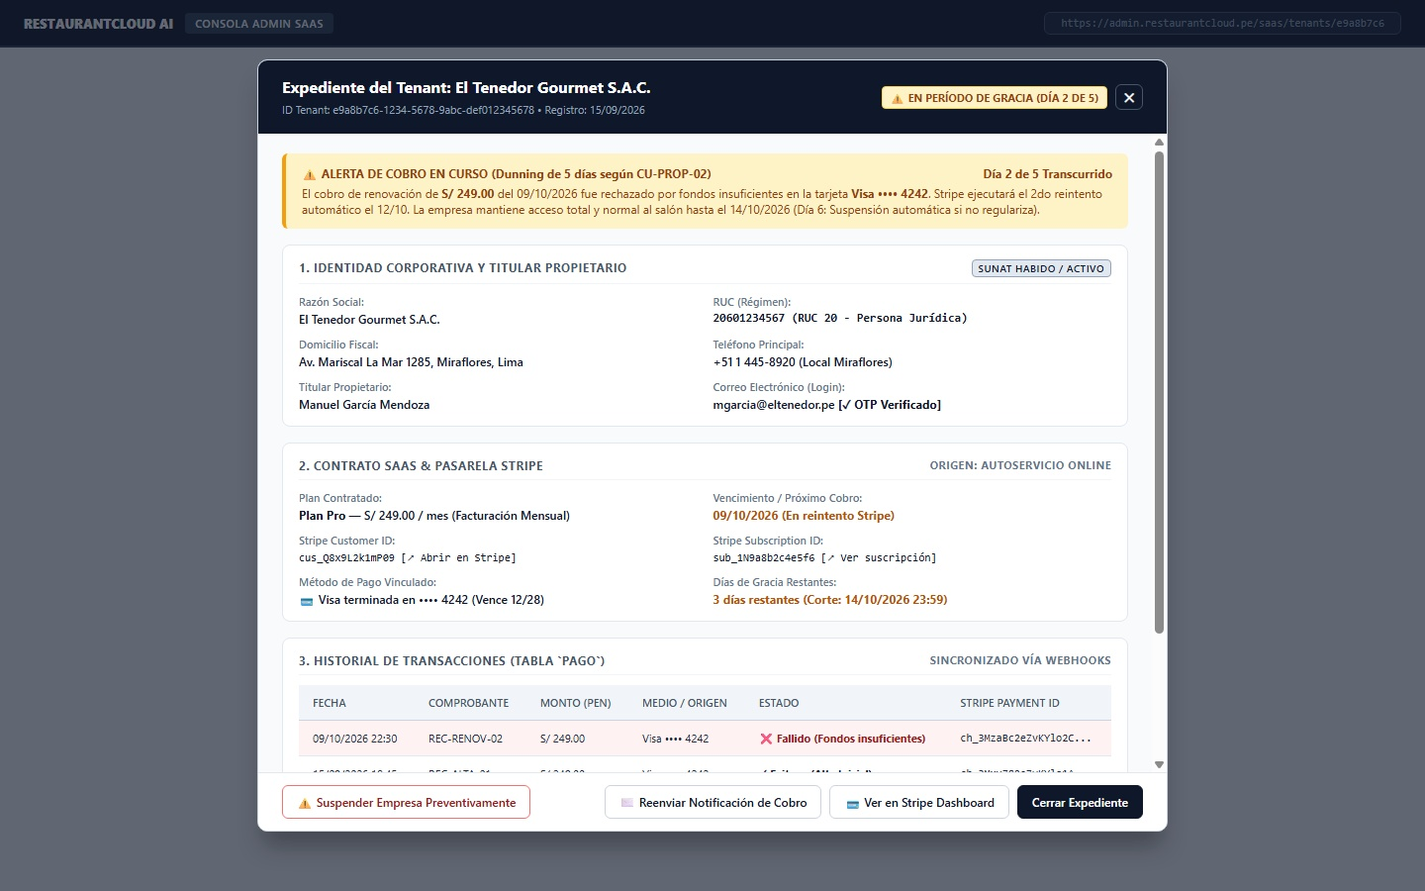
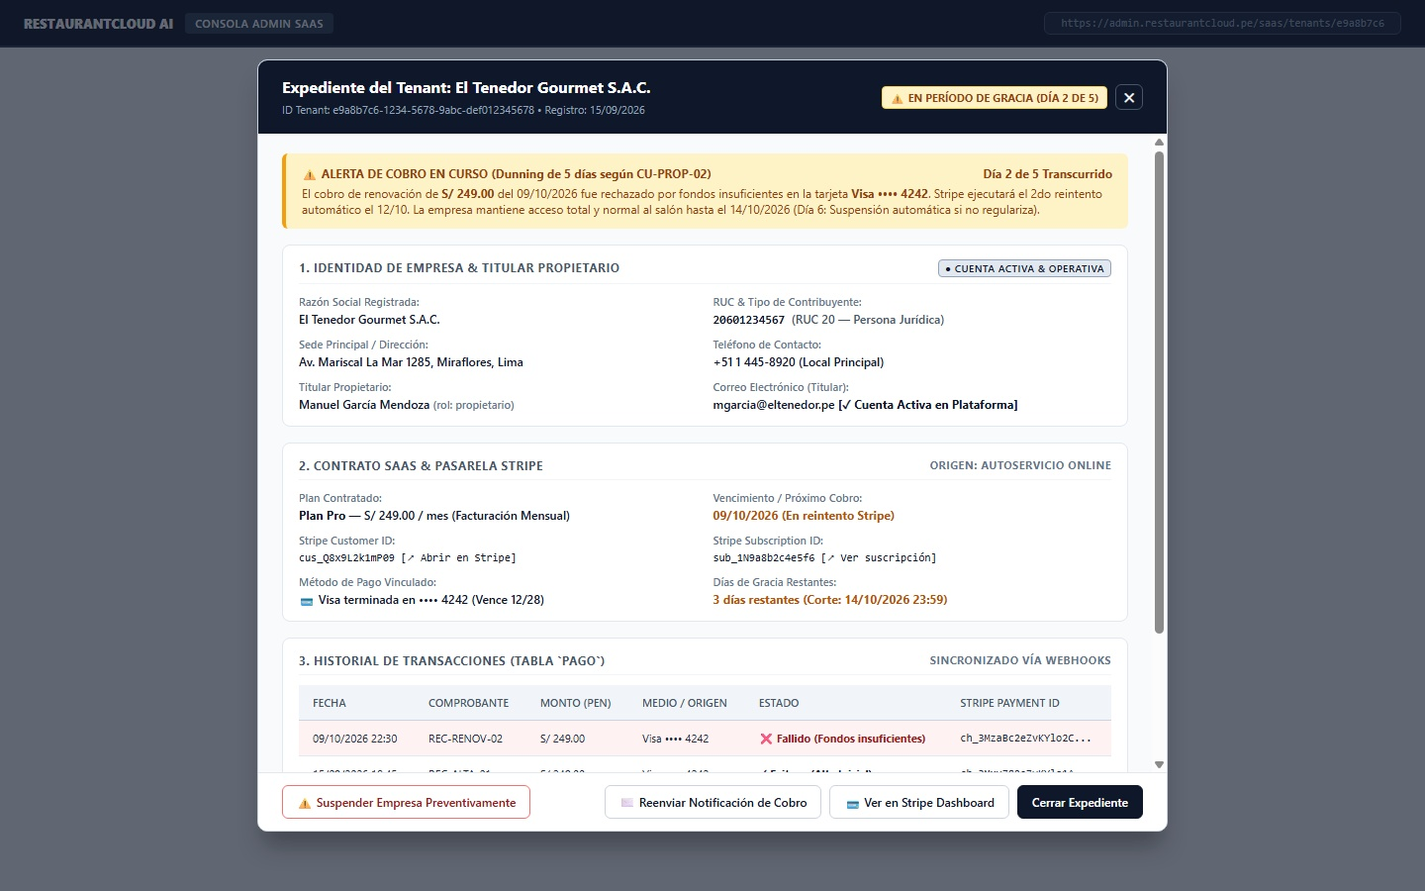
CU-SAAS-01: Desacoplar expediente y alta manual de APIs externas usando datos locales y validacion Modulo 11

diff --git a/wireframe/saas_admin/CU-SAAS-01-supervisar-tenants/wireframe.md b/wireframe/saas_admin/CU-SAAS-01-supervisar-tenants/wireframe.md
@@ -41,6 +41,12 @@
    - **En Período de Gracia:** Cuentas con pago de renovación en reintento dentro de la ventana de 5 días (ej. 3 empresas, S/ 747 MRR en riesgo).
    - **Sedes Operativas Conectadas:** Total acumulado de locales físicos en producción (ej. 112 locales, promedio 2.3 sedes por empresa), indicador directo del uso real de la infraestructura.
 
+6. **Independencia de APIs Externas (SUNAT / ApiPerú) y Validación Matemática Local:**
+   - La visualización del expediente (Vista 2) y el formulario de alta manual (Vista 3) no dependen de llamadas a APIs externas de SUNAT ni ApiPerú, eliminando costos por consulta, riesgos de timeout y cuellos de botella de red.
+   - El RUC de 11 dígitos se valida internamente en frontend y backend mediante el **algoritmo matemático de Módulo 11**, verificando la consistencia de su dígito verificador.
+   - La tipificación del contribuyente se deduce limpiamente del prefijo del RUC: prefijo `20` $\rightarrow$ `Persona Jurídica (Empresa)`; prefijo `10` $\rightarrow$ `Persona Natural con Negocio`.
+   - El estado tributario se reemplaza por el **Estado de Cuenta en Plataforma** (`● ACTIVA & OPERATIVA`, `⚠ EN PERÍODO DE GRACIA`, `🚫 SUSPENDIDA`), resolviéndose con un `JOIN` local de base de datos en $< 10\text{ ms}$.
+
 ---
 
 ## 2. Diagrama de Secuencia Mermaid
@@ -64,11 +70,11 @@ sequenceDiagram
     API-->>SPA: 200 OK (TenantListResponseDTO)
     SPA-->>SAAS: Renderiza Bandeja de Tenants (Vista 1: wf_saas_01_bandeja_tenants.jpg)
 
-    opt Flujo 2: Inspección de Expediente de Tenant en Gracia
-        SAAS->>SPA: Clic en [ 👁 Ver Expediente ] (La Mar Cevichería)
+    opt Flujo 2: Inspección de Expediente de Tenant en Gracia (100% Local)
+        SAAS->>SPA: Clic en [ 👁 Ver Expediente ] (El Tenedor Gourmet)
         SPA->>API: GET /api/v1/saas/tenants/EMP-004
-        API->>BD: SELECT e.*, s.*, p.* FROM empresa e JOIN suscripcion s ...
-        BD-->>API: Datos fiscales, Stripe IDs, historial de pagos, sedes y mesas
+        API->>BD: SELECT e.*, s.*, p.*, l.direccion FROM empresa e JOIN suscripcion s ...
+        BD-->>API: Datos nativos, tipo deducido, Stripe IDs, pagos, sedes y mesas
         API-->>SPA: 200 OK (TenantDetailResponseDTO)
         SPA-->>SAAS: Despliega Expediente Modal (Vista 2: wf_saas_01_detalle_tenant.jpg)
         
@@ -77,29 +83,30 @@ sequenceDiagram
         API->>MAIL: Enviar email recordatorio con botón de actualización de tarjeta
         MAIL-->>API: 202 Dispatched
         API-->>SPA: 200 OK (Notificación despachada)
-        SPA-->>SAAS: Toast: "✓ Recordatorio enviado al propietario (gerencia@lamar.pe)"
+        SPA-->>SAAS: Toast: "✓ Recordatorio enviado al propietario (mgarcia@eltenedor.pe)"
     end
 
-    opt Flujo 3: Alta Manual de Empresa con Pago Verificado (B2B)
+    opt Flujo 3: Alta Manual B2B con Validación Sintáctica Local
         SAAS->>SPA: Clic en botón [ ➕ Nueva Alta Manual ]
         SPA-->>SAAS: Despliega Modal de Formulario (Vista 3: wf_saas_01_modal_alta_manual.jpg)
-        SAAS->>SPA: Ingresa RUC 20603849201 y pulsa [ 🔍 Consultar SUNAT ]
-        SPA->>API: GET /api/v1/saas/sunat/consultar-ruc?ruc=20603849201
-        API-->>SPA: 200 OK (Cevichería Puerto Marino S.A.C., ACTIVO/HABIDO)
+        SAAS->>SPA: Digita RUC 20603849201, Razón Social y Sede Principal
+        SPA->>SPA: Valida algoritmo Módulo 11 (Frontend) y deduce: RUC 20 — Persona Jurídica
         
         SAAS->>SPA: Completa titular, selecciona Plan Pro Anual y registra pago BCP (S/ 2,490)
         SAAS->>SPA: Marca "Despachar correo automático de bienvenida" y pulsa [ ✓ Confirmar Pago y Activar Empresa ]
         
         SPA->>API: POST /api/v1/saas/tenants/alta-manual (AltaManualTenantRequestDTO)
+        API->>API: Valida algoritmo Módulo 11 (Backend Go)
         
         rect rgb(240, 249, 255)
             Note over API, BD: Transacción Atómica de Alta y Pago
             API->>BD: INSERT INTO empresa (ruc, razon_social, estado='activa', origen_alta='manual_admin', ...)
+            API->>BD: INSERT INTO local (empresa_id, nombre='Sede Principal', direccion=..., ...)
             API->>BD: INSERT INTO suscripcion (empresa_id, plan_id, estado='activa', ciclo='anual', ...)
             API->>BD: INSERT INTO pago (empresa_id, monto=2490.00, estado='exitoso', origen_pago='transferencia_bancaria', numero_operacion='OP-90481239-BCP', ...)
             API->>BD: INSERT INTO usuario (empresa_id, rol='propietario', email='admin@puertomarino.pe', ...)
             API->>BD: INSERT INTO capability_token (usuario_id, token, expira_en=72h, accion='fijar_password')
-            BD-->>API: Tenant, suscripción, pago y propietario creados
+            BD-->>API: Tenant, local, suscripción, pago y propietario creados
         end
 
         API->>MAIL: Enviar correo de bienvenida con enlace para configurar contraseña
@@ -174,14 +181,14 @@ Modal de auditoría 360° que desglosa la relación comercial, estado en SUNAT, 
 +-------------------------------------------------------------------------------------------------------------------------------------+
 | [MODAL DE EXPEDIENTE: CU-SAAS-01: DETALLE DE EMPRESA & SUSCRIPCIÓN]                                                                 |
 +-------------------------------------------------------------------------------------------------------------------------------------+
-|  EXPEDIENTE DE EMPRESA: LA MAR CEVICHERÍA E.I.R.L.                                                                        [✕]      |
-|  RUC: 20551928371 • Creado el 15/09/2026 • Estado: [⚠ En Período de Gracia (Día 2 de 5)]                                           |
+|  EXPEDIENTE DEL TENANT: EL TENEDOR GOURMET S.A.C.                                                                          [✕]      |
+|  ID Tenant: e9a8b7c6-1234-5678-9abc-def012345678 • Registro: 15/09/2026 • Estado: [⚠ EN PERÍODO DE GRACIA (DÍA 2 DE 5)]            |
 |-------------------------------------------------------------------------------------------------------------------------------------|
 |  +-------------------------------------------------------------------------------------------------------------------------------+  |
-|  | 1. DATOS FISCALES & CONTACTO TITULAR                                                                                          |  |
-|  | Razón Social: La Mar Cevichería E.I.R.L.               | Estado SUNAT: ✓ ACTIVO / HABIDO (Verificado SUNAT)                   |  |
-|  | Titular / Contacto: Carlos Benavides (Propietario)    | Email Titular: gerencia@lamar.pe                                     |  |
-|  | Teléfono: +51 987 654 321                             | Dirección Fiscal: Av. Mariscal La Mar 770, Miraflores, Lima          |  |
+|  | 1. IDENTIDAD DE EMPRESA & TITULAR PROPIETARIO                              | [● CUENTA ACTIVA & OPERATIVA]                    |  |
+|  | Razón Social Registrada: El Tenedor Gourmet S.A.C.                         | RUC & Tipo: 20601234567 (RUC 20 — Persona Juríd.)|  |
+|  | Sede Principal / Dirección: Av. Mariscal La Mar 1285, Miraflores, Lima     | Teléfono de Contacto: +51 1 445-8920 (Principal) |  |
+|  | Titular Propietario: Manuel García Mendoza (rol: propietario)              | Correo Electrónico: mgarcia@eltenedor.pe [✓ Act.]|  |
 |  +-------------------------------------------------------------------------------------------------------------------------------+  |
 |  +-------------------------------------------------------------------------------------------------------------------------------+  |
 |  | 2. CONTRATO SAAS & PASARELA STRIPE                    | Origen: Autoservicio Online (CU-PROP-01)                              |  |
@@ -205,8 +212,8 @@ Modal de auditoría 360° que desglosa la relación comercial, estado en SUNAT, 
 ```
 
 #### Guía de Elementos y Microcopias
-- **Cabecera del Expediente:** Nombre legal, RUC, fecha de creación y badge de estado `⚠ En Período de Gracia (Día 2 de 5)`.
-- **Sección 1 (Identificación Fiscal):** Datos verificados contra API SUNAT (Razón social, RUC, dirección fiscal, teléfono y contacto titular).
+- **Cabecera del Expediente:** Nombre legal, UUID del tenant, fecha de creación y badge de estado `⚠ En Período de Gracia (Día 2 de 5)`.
+- **Sección 1 (Identidad de Empresa & Titular Propietario):** 100% nativa de base de datos (`empresa.razon_social`, `empresa.ruc`, derivación de tipo `RUC 20 — Persona Jurídica`, dirección de sede principal `local.direccion`, teléfono de contacto y titular con badge `● CUENTA ACTIVA & OPERATIVA`).
 - **Sección 2 (Contrato SaaS & Stripe):** Plan actual (Pro S/ 249/mes), ID de cliente y suscripción en Stripe con deep links a la consola de Stripe, tarjeta vinculada y fecha exacta de corte de servicio tras cumplirse los 5 días de gracia.
 - **Sección 3 (Historial de Pagos):** Tabla con registros inmutables de cobro provenientes de la tabla `pago`. Destaca en fondo rosado el cobro fallido del 09/10 con causa `"Fondos insuficientes"` y el cargo exitoso del alta inicial.
 - **Sección 4 (Uso de Recursos):** Barras de progreso de locales (2 de 3), mesas (28 de 30) y cuentas de personal (11 de 15).
@@ -231,9 +238,9 @@ Formulario de registro administrativo para clientes corporativos B2B que cancela
 |  Registro administrativo para clientes corporativos con pago por transferencia bancaria (sin pasarela Stripe online)                |
 |-------------------------------------------------------------------------------------------------------------------------------------|
 |  +-------------------------------------------------------------------------------------------------------------------------------+  |
-|  | 1. IDENTIFICACIÓN TRIBUTARIA (VALIDACIÓN SUNAT / APIPERÚ)                                                                     |  |
-|  | RUC de la Empresa (11 dígitos): * [ 20603849201 ] [🔍 Consultar SUNAT]  | Estado SUNAT: ✓ ACTIVO / HABIDO                     |  |
-|  | Razón Social Oficial: * [ Cevichería Puerto Marino S.A.C.           ]  | Dirección: * [ Av. Primavera 450, Surco, Lima     ] |  |
+|  | 1. IDENTIFICACIÓN DE LA EMPRESA (INGRESO DIRECTO & VALIDACIÓN SINTÁCTICA LOCAL)                                               |  |
+|  | RUC de la Empresa (11 dígitos): * [ 20603849201 ]        | Tipo Deducido: ✓ RUC 20 — Persona Jurídica (Módulo 11 conforme)|  |
+|  | Razón Social Oficial: * [ Cevichería Puerto Marino S.A.C.           ]  | Dirección Sede: * [ Av. Primavera 450, Surco, Lima ]|  |
 |  +-------------------------------------------------------------------------------------------------------------------------------+  |
 |  +-------------------------------------------------------------------------------------------------------------------------------+  |
 |  | 2. DATOS DEL PROPIETARIO ADMINISTRADOR                                                                                         |  |
@@ -258,7 +265,7 @@ Formulario de registro administrativo para clientes corporativos B2B que cancela
 ```
 
 #### Guía de Elementos y Microcopias
-- **Bloque 1 (Validación SUNAT):** Input de RUC con botón de consulta automática. Al validar, auto-completa Razón Social y Dirección Fiscal, mostrando el badge verde `✓ ACTIVO / HABIDO`.
+- **Bloque 1 (Identificación de la Empresa):** Ingreso directo de RUC (11 dígitos con máscara), validación local matemática Módulo 11 sin llamadas externas, deducción de tipo de contribuyente (`RUC 20 — Persona Jurídica`), Razón Social y Dirección física de la primera sede.
 - **Bloque 2 (Datos del Titular):** Nombres, apellidos, teléfono corporativo y email donde se despachará la invitación de bienvenida.
 - **Bloque 3 (Plan y Términos):** Selector de Plan (Starter, Pro, Enterprise), periodicidad (Mensual o Anual con 2 meses de bonificación) y fechas de vigencia.
 - **Bloque 4 (Pago Verificado):** Monto en Soles, selector de medio de pago bancario (Transferencia BCP, BBVA, Interbank, Yape Empresa, Efectivo Corporativo), número de constancia bancaria y nota administrativa de tesorería.
@@ -401,29 +408,31 @@ type ConsumoRecursosDTO struct {
 }
 
 type TenantDetailResponseDTO struct {
-	EmpresaID           string             `json:"empresa_id"`
-	CodigoEmpresa       string             `json:"codigo_empresa"`
-	RUC                 string             `json:"ruc"`
-	RazonSocial         string             `json:"razon_social"`
-	DireccionFiscal     string             `json:"direccion_fiscal"`
-	EstadoSUNAT         string             `json:"estado_sunat"`
-	ContactoNombre      string             `json:"contacto_nombre"`
-	ContactoEmail       string             `json:"contacto_email"`
-	ContactoTelefono    string             `json:"contacto_telefono"`
-	PlanID              string             `json:"plan_id"`
-	PlanNombre          string             `json:"plan_nombre"`
-	PrecioPeriodoPEN    float64            `json:"precio_periodo_pen"`
-	CicloFacturacion    string             `json:"ciclo_facturacion"` // "mensual", "anual"
-	EstadoSuscripcion   string             `json:"estado_suscripcion"`
-	DiaGraciaActual     *int               `json:"dia_gracia_actual"`
-	FechaInicio         time.Time          `json:"fecha_inicio"`
-	FechaProximoCobro   time.Time          `json:"fecha_proximo_cobro"`
-	FechaCorteGracia    *time.Time         `json:"fecha_corte_gracia"`
-	StripeCustomerID    string             `json:"stripe_customer_id,omitempty"`
-	StripeSubscriptionID string            `json:"stripe_subscription_id,omitempty"`
-	MetodoPagoRegistrado string            `json:"metodo_pago_registrado"`
-	HistorialPagos      []PagoHistorialDTO `json:"historial_pagos"`
-	Consumo             ConsumoRecursosDTO `json:"consumo"`
+	EmpresaID              string             `json:"empresa_id"`
+	CodigoEmpresa          string             `json:"codigo_empresa"`
+	RUC                    string             `json:"ruc"`
+	TipoContribuyente      string             `json:"tipo_contribuyente"`       // "RUC 20 — Persona Jurídica" o "RUC 10 — Persona Natural"
+	RazonSocial            string             `json:"razon_social"`
+	DireccionSedePrincipal string             `json:"direccion_sede_principal"`
+	EstadoCuentaPlataforma string             `json:"estado_cuenta_plataforma"` // "activa", "periodo_gracia", "suspendida"
+	FechaRegistro          time.Time          `json:"fecha_registro"`
+	ContactoNombre         string             `json:"contacto_nombre"`
+	ContactoEmail          string             `json:"contacto_email"`
+	ContactoTelefono       string             `json:"contacto_telefono"`
+	PlanID                 string             `json:"plan_id"`
+	PlanNombre             string             `json:"plan_nombre"`
+	PrecioPeriodoPEN       float64            `json:"precio_periodo_pen"`
+	CicloFacturacion       string             `json:"ciclo_facturacion"`        // "mensual", "anual"
+	EstadoSuscripcion      string             `json:"estado_suscripcion"`
+	DiaGraciaActual        *int               `json:"dia_gracia_actual"`
+	FechaInicio            time.Time          `json:"fecha_inicio"`
+	FechaProximoCobro      time.Time          `json:"fecha_proximo_cobro"`
+	FechaCorteGracia       *time.Time         `json:"fecha_corte_gracia"`
+	StripeCustomerID       string             `json:"stripe_customer_id,omitempty"`
+	StripeSubscriptionID   string             `json:"stripe_subscription_id,omitempty"`
+	MetodoPagoRegistrado   string             `json:"metodo_pago_registrado"`
+	HistorialPagos         []PagoHistorialDTO `json:"historial_pagos"`
+	Consumo                ConsumoRecursosDTO `json:"consumo"`
 }
 ```
 
@@ -436,10 +445,10 @@ package dto
 import "time"
 
 type AltaManualTenantRequestDTO struct {
-	// Identificación Fiscal
-	RUC                 string    `json:"ruc" binding:"required,len=11"`
+	// Identificación de la Empresa (Ingreso Directo & Validación Módulo 11)
+	RUC                 string    `json:"ruc" binding:"required,len=11"` // Validado con algoritmo Módulo 11 en Go
 	RazonSocial         string    `json:"razon_social" binding:"required,min=3"`
-	DireccionFiscal     string    `json:"direccion_fiscal" binding:"required,min=5"`
+	DireccionSede       string    `json:"direccion_sede" binding:"required,min=5"`
 	
 	// Datos Propietario
 	PropietarioNombre   string    `json:"propietario_nombre" binding:"required,min=3"`
@@ -569,13 +578,14 @@ Escenario: Identificación visual y seguimiento de cuentas en período de gracia
   Entonces la empresa aparece con badge ámbar indicando "Día X de 5 de gracia"
   Y al abrir el expediente se visualiza el motivo del fallo y la fecha exacta de corte.
 
-Escenario: Registro exitoso de alta manual corporativa con pago verificado
+Escenario: Registro exitoso de alta manual corporativa con validación sintáctica local
   Dado que el administrador SaaS se encuentra en el modal de Alta Manual
-  Cuando consulta el RUC "20603849201" contra la API de SUNAT
-  Y el sistema autocompleta la Razón Social y confirma estado "ACTIVO / HABIDO"
+  Cuando ingresa el RUC "20603849201", la Razón Social "Cevichería Puerto Marino S.A.C." y la Dirección "Av. Primavera 450"
+  Entonces el sistema valida localmente el RUC mediante el algoritmo Módulo 11 sin consultar APIs externas
+  Y deduce automáticamente la clasificación "RUC 20 — Persona Jurídica"
   Y el administrador selecciona "Plan Pro Anual", ingresa "S/ 2,490.00", número de operación "OP-90481239-BCP" y nota de respaldo
   Y confirma la creación
-  Entonces se inserta la empresa con origen_alta "manual_admin"
+  Entonces se inserta la empresa con origen_alta "manual_admin" y su sede principal
   Y se inserta el registro en la tabla "pago" con estado "exitoso" y origen "transferencia_bancaria"
   Y se despacha un correo con capability token de 72h al propietario para configurar su contraseña.
 

diff --git a/context/cu.md b/context/cu.md
@@ -31,28 +31,29 @@ Documento de Casos de Uso — Versión Consolidada Final *Levantamiento de reque
    - **Sedes Operativas Conectadas:** Total de locales físicos activos en la plataforma y promedio de sedes por cliente.
 3. El administrador filtra por pestañas (`[Todos]`, `[Activos]`, `[En Gracia]`, `[Suspendidos]`, `[Baja]`) o busca por RUC, razón social o nombre comercial en tiempo real.
 4. El administrador puede inspeccionar el **Expediente 360°** de cualquier empresa (`GET /api/v1/saas/tenants/:id`):
-   - Datos fiscales validados contra SUNAT / ApiPerú (RUC, razón social, dirección y contacto titular).
+   - Identidad de la empresa y titular resuelta 100% de la base de datos interna (`empresa.razon_social`, `empresa.ruc`, derivación de tipo `RUC 20 — Persona Jurídica` o `RUC 10`, dirección de sede principal `local.direccion`, teléfono y correo).
+   - Semáforo operativo en plataforma (`● Cuenta Activa & Operativa`, `⚠ En Período de Gracia`, `🚫 Suspendida`) sin llamadas a APIs externas.
    - Contrato SaaS y referencias a Stripe (`customer_id`, `subscription_id`, método de pago, días de gracia restantes).
    - Historial de transacciones de la tabla `pago` (cargos exitosos y cobros fallidos sincronizados vía webhooks).
    - Uso de recursos en tiempo real vs límites del plan (locales, mesas y usuarios de personal).
 5. Ante cobros fallidos en período de gracia, el administrador puede despachar recordatorios de cobro por correo electrónico con enlace directo para actualización de tarjeta en Stripe.
 6. **Alta Manual de Clientes Corporativos B2B (`POST /api/v1/saas/tenants/alta-manual`):**
    - El administrador pulsa `[ ➕ Nueva Alta Manual ]`.
-   - Ingresa el RUC de 11 dígitos y el sistema valida en línea contra SUNAT (obteniendo Razón Social y condición Habido).
+   - Ingresa el RUC de 11 dígitos, validado localmente con el algoritmo matemático Módulo 11 (garantizando dígito verificador correcto sin consultar APIs externas), la Razón Social y la Dirección de la sede principal.
    - Digita los datos del propietario (nombre, teléfono y correo electrónico corporativo).
    - Selecciona el Plan contratado y el ciclo de facturación (mensual o anual).
    - **Registro de Pago Verificado Obligatorio:** Registra el monto en PEN, medio de pago bancario (Transferencia BCP/BBVA, Depósito, Yape Empresa), número de constancia/operación y nota administrativa de respaldo.
-   - Al confirmar, el sistema ejecuta una transacción atómica insertando la empresa, suscripción, usuario propietario y el pago en la tabla `pago` con estado `exitoso`.
+   - Al confirmar, el sistema ejecuta una transacción atómica insertando la empresa, sede principal, suscripción, usuario propietario y el pago en la tabla `pago` con estado `exitoso`.
    - El sistema genera un capability token criptográfico (TTL 72 horas) y despacha automáticamente un correo de bienvenida para que el titular establezca su contraseña e inicie el aprovisionamiento de su restaurante.
 
 #### Flujos alternativos
 
 - No existen empresas en período de gracia ni cobros pendientes al filtrar → El sistema presenta el estado vacío orientador con escudo de solvencia (`wf_saas_01_estado_vacio.jpg`).
-- El RUC ingresado en el alta manual no existe en SUNAT o se encuentra no habido → El sistema emite advertencia bloqueante requiriendo corregir el número o ingresar la razón social manualmente con justificación.
+- El RUC ingresado en el alta manual no cumple con el algoritmo Módulo 11 → El sistema emite advertencia bloqueante en el formulario impidiendo el registro hasta ingresar un RUC matemáticamente válido.
 - Se intenta registrar un alta manual con monto S/ 0.00 o sin número de operación bancaria → Validación estricta impidiendo el registro, garantizando que todo tenant activo posea respaldo económico en la tabla `pago`.
 - Una empresa en período de gracia alcanza el día 6 sin regularizar el cobro → El sistema ejecuta la suspensión automática del tenant (`CU-SAAS-02`), inhabilitando el acceso a sus terminales de salón.
 
-**Postcondiciones:** Base de datos de tenants auditada en tiempo real; expedientes actualizados; altas corporativas B2B creadas con pago inmutable en `pago` y propietario invitado vía capability token.
+**Postcondiciones:** Base de datos de tenants auditada en tiempo real; expedientes actualizados con datos relacionales nativos; altas corporativas B2B creadas con pago inmutable en `pago` y propietario invitado vía capability token.
 
 ### CU-SAAS-02: Dar de baja / suspender empresa (conforme a ley)
 

diff --git a/context/walkthrough.md b/context/walkthrough.md
@@ -1887,8 +1887,8 @@ Se diseñaron, renderizaron y validaron 4 vistas en resolución canónica (1440x
 
 ### Vista 2: Expediente Detallado de Empresa y Estado de Cobros (`wf_saas_01_detalle_tenant.jpg`)
 ![Vista 2: Expediente de Tenant](file:///j:/proyectos_git/RestaurantCloud_AI_backend/wireframe/saas_admin/CU-SAAS-01-supervisar-tenants/assets/wf_saas_01_detalle_tenant.jpg)
-- **Modal de Auditoría 360° (900px):** Inspección completa del cliente gastronómico *La Mar Cevichería E.I.R.L.* en estado `⚠ En Período de Gracia (Día 2 de 5)`.
-- **Bloque 1 (Identificación Fiscal y Contacto):** RUC 20551928371, estado verificado SUNAT `✓ ACTIVO / HABIDO`, titular Carlos Benavides y correo de cobranza.
+- **Modal de Auditoría 360° (900px):** Inspección completa del cliente gastronómico *El Tenedor Gourmet S.A.C.* en estado `⚠ En Período de Gracia (Día 2 de 5)`.
+- **Bloque 1 (Identidad de Empresa & Titular Propietario):** 100% nativa de base de datos (`empresa.razon_social`, `empresa.ruc`, derivación interna `RUC 20 — Persona Jurídica`, dirección de sede principal `local.direccion`, teléfono de contacto, titular y badge `● CUENTA ACTIVA & OPERATIVA`).
 - **Bloque 2 (Contrato SaaS y Pasarela Stripe):** Plan Pro (S/ 249/mes), fecha de cobro en reintento, IDs técnicos (`cus_Q8x9L2k1mP09`, `sub_1N9a8b2c4e5f6`), tarjeta Visa vinculada y cuenta regresiva de gracia (`3 días restantes, corte 14/10/2026 23:59`).
 - **Bloque 3 (Historial de Transacciones de la Tabla `pago`):** Visualización inmutable de cobros sincronizados vía webhooks; resalta en rosa el cargo fallido del 09/10 (`REC-RENOV-02`, "Fondos insuficientes") y el cobro exitoso del alta inicial.
 - **Bloque 4 (Consumo de Límites del Plan):** Medición de uso: Locales 2/3 (67%), Mesas 28/30 (93%) y Personal 11/15 (73%).
@@ -1897,7 +1897,7 @@ Se diseñaron, renderizaron y validaron 4 vistas en resolución canónica (1440x
 ### Vista 3: Modal de Alta Manual con Pago Verificado (`wf_saas_01_modal_alta_manual.jpg`)
 ![Vista 3: Alta Manual Corporativa](file:///j:/proyectos_git/RestaurantCloud_AI_backend/wireframe/saas_admin/CU-SAAS-01-supervisar-tenants/assets/wf_saas_01_modal_alta_manual.jpg)
 - **Formulario Compacto de Alta B2B (820px):** Diseñado sin scrollbars verticales, agrupando 4 bloques esenciales:
-  - *Bloque 1 (Validación SUNAT):* Consulta en línea de RUC `20603849201` con confirmación automática de `Cevichería Puerto Marino S.A.C.` y dirección fiscal.
+  - *Bloque 1 (Identificación de la Empresa):* Ingreso directo de RUC `20603849201` con validación sintáctica matemática Módulo 11 (dígito verificador conforme), deducción automática de `RUC 20 — Persona Jurídica`, Razón Social y dirección de la sede principal (sin depender de APIs externas).
   - *Bloque 2 (Datos del Titular):* Nombre, teléfono/WhatsApp y correo corporativo `admin@puertomarino.pe`.
   - *Bloque 3 (Plan y Vigencia):* Plan Pro Anual (`S/ 2,490 / año`) con fechas de inicio y vencimiento a 1 año.
   - *Bloque 4 (Registro de Pago Bancario Verificado):* Monto cobrado en Soles, selector de medio bancario (`Transferencia Bancaria BCP`), N° de constancia `OP-90481239-BCP` y nota administrativa de tesorería que se persiste con estado `exitoso` en la tabla `pago`.
